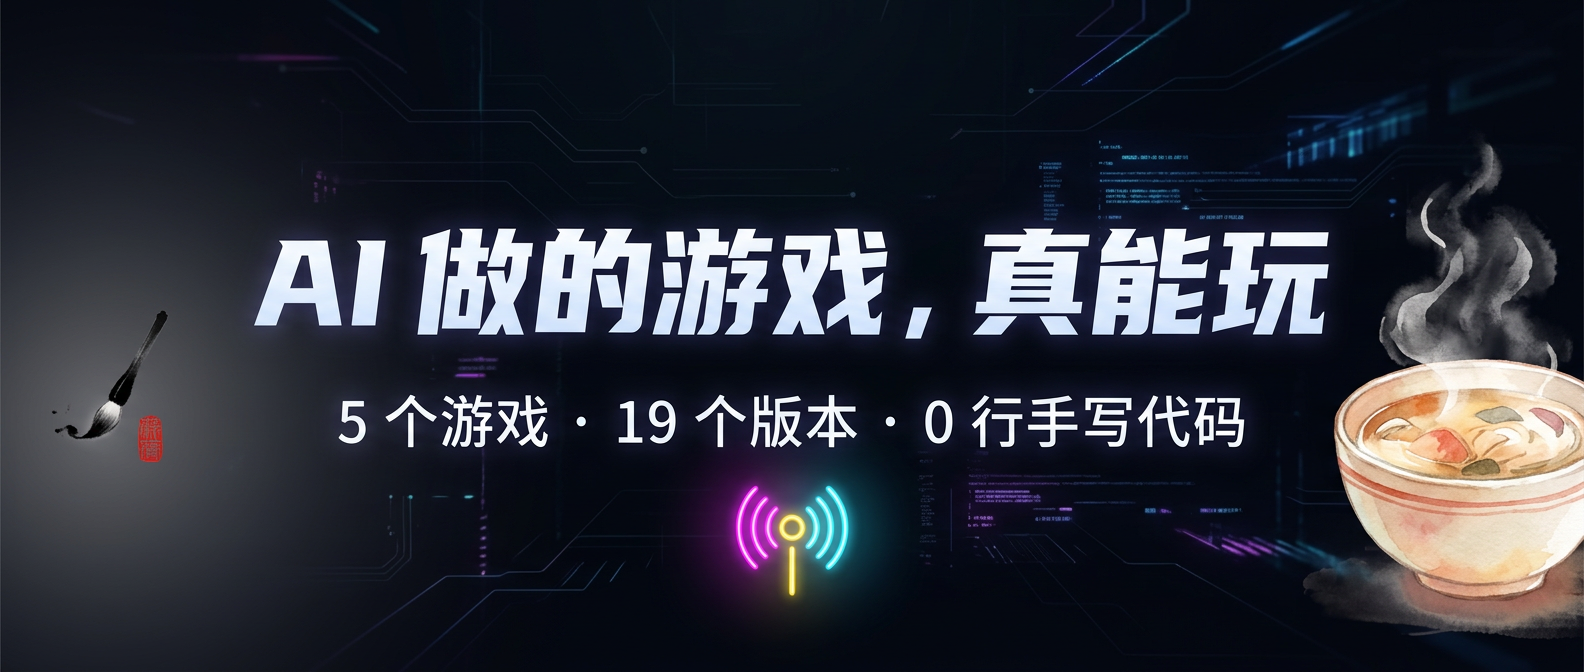
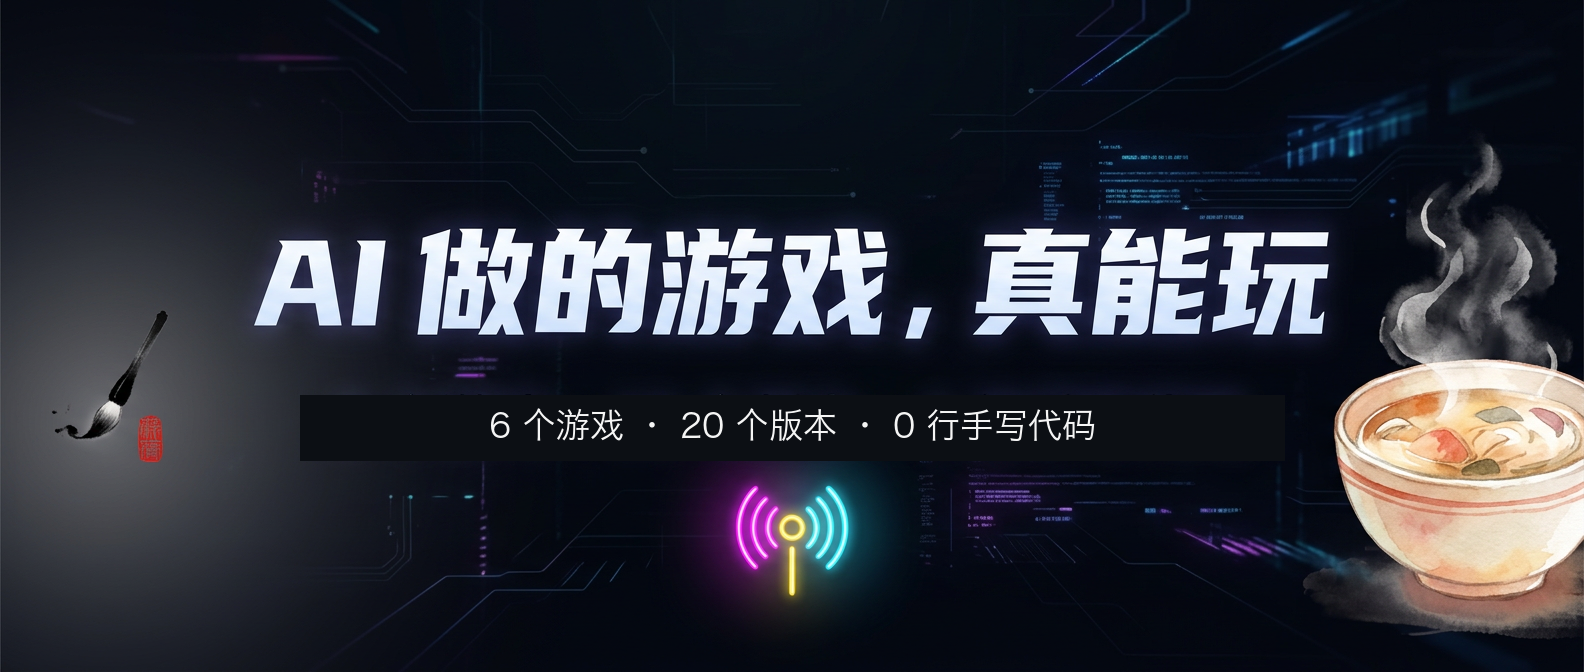
examples: crash-lab — Blender-grade 3D physics destruction built by gpt-6-astra
First 3D game in the collection: PBR materials, three-point lighting,
0.25x slow-mo collapse, seeded physics (±0% measured determinism).
Published: play/9b198fca..., share code 94401. Anonymous play verified.

Changed region(s): [[0.1856, 0.5625, 0.8043, 0.6875]]

diff --git a/README.en.md b/README.en.md
@@ -5,14 +5,24 @@
 [中文](README.md) | **English**
 
 [![License: MIT](https://img.shields.io/badge/License-MIT-green.svg)](LICENSE)
-[![Games: 5](https://img.shields.io/badge/games-5-blueviolet)](https://github.com/convergeai-labs/combos-examples#play-online)
+[![Games: 5](https://img.shields.io/badge/games-6-blueviolet)](https://github.com/convergeai-labs/combos-examples#play-online)
 [![Hand-written code: 0 lines](https://img.shields.io/badge/hand--written%20code-0%20lines-orange)](docs/how-built-with-agent.md)
 
 Games created on [Combos](https://combos.converge.ai) **entirely by an AI coding agent driving the platform's Boo editor agent** — no hand-written game code. Each example ships with its full creation spec, delivery report, version (hash) chain, and verification evidence.
 
 > Batch 1: two games built in one day (pixel fighting + terminal quiz). Batch 2 (2026-08-25): a style-diversity trio — ink-wash, synthwave, watercolor — each **one-shot built, zero fix turns**.
 
-## Latest: the style-diversity batch
+## Latest: the 3D showcase (gpt-6-astra)
+
+| 崩塌实验室 Crash Lab |
+|---|
+| ![Crash Lab gameplay: aim → launch → slow-mo collapse → result](docs/assets/demo-crashlab.gif) |
+| Blender-grade 3D physics destruction: drag to aim, one shot, 0.25× slow-mo collapse, destruction-% rank card |
+| [▶ Start smashing](https://combos.game/play/9b198fca47ea7195ca115dc396b85b7b) `94401` · [docs](examples/crash-lab/) |
+
+First 3D game in the collection, built in one shot by **gpt-6-astra** with zero fix turns; seeded physics — identical drags measured ±0% across runs.
+
+## The style-diversity batch
 
 Three games with zero overlap in visual style, input mechanic, and distribution structure:
 
@@ -39,7 +49,7 @@ No install — opens in a mobile browser, anonymous play supported:
 
 ![Creation pipeline: viral design → spec → Boo creation → independent browser verification → bounded fixes → delivery report](docs/assets/creation-pipeline.png)
 
-Every deployed hash is independently verified in a real browser; failures go back for a bounded fix turn and the new hash is verified again. Five games, 19 deployed hashes, zero hand-written code.
+Every deployed hash is independently verified in a real browser; failures go back for a bounded fix turn and the new hash is verified again. Six games, 20 deployed hashes, zero hand-written code.
 
 ## Examples
 
@@ -50,6 +60,7 @@ Every deployed hash is independently verified in a real browser; failures go bac
 | [一笔签 One Stroke Fortune](examples/one-stroke-fortune/) | Draw one stroke on rice paper, get your 2026 ink fortune poster | [▶ play](https://combos.game/play/f21f5d3fc39ed46e571279e28e995ce8) | 1 | Complete spec = one-shot build, zero fixes; UGC hook without a camera |
 | [毫秒反应局 Millisecond Reaction](examples/ms-reflex/) | Tap on green, 5 rounds, average-ms rank card | [▶ play](https://combos.game/play/28185913e918a376b139ff0c511b9ff9) | 1 | External verification of a WebGL game: screenshot pixel probe instead of getImageData |
 | [灵魂汤底 Soul Soup](examples/soul-soup/) | Three gentle choices in a rainy-night store reveal your soul soup | [▶ play](https://combos.game/play/1040f4909f4dc83398a9739ea27bd384) | 1 | Deterministic mapping (27 paths → 6 soups) written into the spec, implemented verbatim |
+| [崩塌实验室 Crash Lab](examples/crash-lab/) | Blender-grade 3D physics destruction in slow motion | [▶ play](https://combos.game/play/9b198fca47ea7195ca115dc396b85b7b) | 1 | Built by gpt-6-astra on demand; seeded physics ±0% measured |
 
 ## How were these built?
 

diff --git a/examples/crash-lab/goal.md b/examples/crash-lab/goal.md
@@ -1,0 +1,57 @@
+# 《崩塌实验室 Crash Lab》— Plan Goal
+
+> 一句话:拖动静止的钢球瞄准,松手发射,把影棚中央一座精致的 3D 玻璃塔轰成慢动作碎片,按破坏率结算评级;一局 20 秒,传播点是 Blender 级渲染感的坍塌美学。
+
+## 模型指定
+
+- 本项目必须使用 gpt-6-astra 模型构建(用户指定,用于验证该模型的 3D 大作能力上限)。
+
+## 传播设计(先于玩法)
+
+- 完播率钩子:坍塌全程慢动作,破坏率%和评级在最后一帧揭晓。
+- 解压 ASMR 钩子:玻璃连续碎裂 + 低音乐器共振,视觉粒子与声效同步,是天然的解压素材。
+- 失败集锦钩子:差 1% 没倒干净的"悬在那一块砖"是评论区素材("那一块砖是承重墙吗")。
+- 自我证明钩子:"我 98.7%,你能一击全清吗"——破坏率天然可比较。
+
+## Player fantasy & core loop
+
+- 玩家幻想:好莱坞特效总监,一次完美爆破。
+- 核心循环:拖动瞄准(轨迹预览)→ 松手发射 → 慢动作坍塌 → 破坏率评级 → 再来一次/下一座结构。
+- 冲突:一发定乾坤,没有第二球。回报:坍塌奇观 + 破坏率数字。
+
+## Platform & input
+
+- 竖屏 portrait 9:16,Mobile + PC。
+- 输入只有一个:按住拖动瞄准(显示弹道虚线),松手发射。
+
+## 内容结构
+
+- 3 种结构轮换:玻璃塔(12 层,脆)、砖墙(带拱,重)、多米诺阵(连锁导向)。
+- 每局随机抽一种结构,物理模拟用固定种子(同弹道必得同破坏率 ±5%)。
+- 评级梯度:0-20% 挠痒痒 / 20-50% 拆迁实习生 / 50-80% 爆破专家 / 80-95% 末日工程师 / 95%+ 完美一击 PERFECT。
+
+## State machine
+
+标题(崩塌实验室 / 一击,全碎)→ 瞄准(结构全景缓慢环绕镜头,拖动弹道预览)→ 发射(0.3s 常速)→ 慢动作坍塌(0.25× 速度,4-6s,镜头推近)→ 结算卡(破坏率% + 评级 + 结构名)→ 慢动作回放 / 再来一次 / 回标题。静音开关常驻。
+
+## 结算卡(传播核心)
+
+- 大字破坏率%(如 98.7%)+ 评级称号 + 坍塌最美一帧做背景 + "你能一击全清吗"CTA。
+- 可保存为图。
+
+## Visual / audio direction
+
+- 风格:Blender Cycles 渲染感。PBR 材质(玻璃折射、砖块粗糙度、金属球高光)、三点布光 + 柔和阴影、浅景深、暖灰影棚背景、坍塌时的体积尘埃粒子、轻微镜头呼吸感。
+- 用 Three.js + 轻量物理(cannon-es 或自写简化刚体);所有材质程序化生成,无外部素材;低端机降级(粒子数减半、关景深)。
+- WebAudio 合成:玻璃碎裂(高频颗粒)、砖块碰撞(低通噪声)、慢动作时的音高下沉。静音开关常驻。
+
+## Fairness / performance / acceptance gates
+
+- 不变量:固定种子下同弹道破坏率偏差 ≤5%;无球卡死穿模出界(超时 8s 强制结算);60fps 目标,低端降级后 ≥30fps。
+- 首屏 3s 内可交互。
+- 验收门禁(每轮迭代后必查):1. 新 hash 出现;2. 状态机全走通(含超时强制结算分支);3. 控制台/pageerror 零未解释错误;4. 390×844 与 1440×900 无重叠裁切;5. 拖动瞄准与发射在 touch 与 mouse 都生效;6. 结算卡要素齐全(破坏率/评级/结构名/CTA);7. 同一坐标重放两次,破坏率一致。
+
+## Explicit exclusions
+
+- 不做:账号、排行榜后端、多人、内购、关卡编辑器、第二球。
+- 不使用任何外部模型/贴图文件;不声称真实物理引擎精度。

diff --git a/README.md b/README.md
@@ -5,14 +5,24 @@
 **中文** | [English](README.en.md)
 
 [![License: MIT](https://img.shields.io/badge/License-MIT-green.svg)](LICENSE)
-[![Games: 5](https://img.shields.io/badge/games-5-blueviolet)](https://github.com/convergeai-labs/combos-examples#在线试玩)
+[![Games: 5](https://img.shields.io/badge/games-6-blueviolet)](https://github.com/convergeai-labs/combos-examples#在线试玩)
 [![Hand-written code: 0 lines](https://img.shields.io/badge/hand--written%20code-0%20lines-orange)](docs/how-built-with-agent.md)
 
 在 [Combos](https://combos.converge.ai) 上、**完全由 AI coding agent 驱动平台的 Boo 编辑 agent** 创作的游戏合集——没有手写一行游戏代码。每个示例都附带完整创作规格、交付报告、版本 hash 链和独立验证证据。
 
 > 第一批:一天之内做出的两个游戏(像素格斗 + 终端盲测)。第二批(2026-08-25):风格多样性三连——水墨、霓虹、水彩,三个游戏全部**一次构建通过,0 修复 turn**。
 
-## 最新:风格多样性批次
+## 最新:3D 大作批次(gpt-6-astra)
+
+| 崩塌实验室 Crash Lab |
+|---|
+| ![崩塌实验室实玩:瞄准→发射→慢动作坍塌→结算](docs/assets/demo-crashlab.gif) |
+| Blender 级渲染感 3D 物理破坏:拖放瞄准,一击轰碎玻璃塔,0.25× 慢动作,破坏率% 评级 |
+| [▶ 开始爆破](https://combos.game/play/9b198fca47ea7195ca115dc396b85b7b) `94401` · [示例文档](examples/crash-lab/) |
+
+合集第一个 3D 游戏,指定 **gpt-6-astra** 模型一次构建 0 修复;固定种子物理,同弹道两次实测破坏率 ±0%。
+
+## 风格多样性批次
 
 视觉风格 × 玩法机制 × 传播结构全部错开的三个游戏:
 
@@ -39,7 +49,7 @@
 
 ![创作流水线:传播设计→写规格→Boo 创建→独立浏览器验证→有界修复→交付报告](docs/assets/creation-pipeline.png)
 
-每个部署 hash 都经过独立浏览器验证;验证不过就回炉,新 hash 再验证。五个游戏共 19 个部署 hash,0 行手写代码。
+每个部署 hash 都经过独立浏览器验证;验证不过就回炉,新 hash 再验证。六个游戏共 20 个部署 hash,0 行手写代码。
 
 ## 示例
 
@@ -50,6 +60,7 @@
 | [一笔签 One Stroke Fortune](examples/one-stroke-fortune/) | 宣纸上画一笔,抽你的 2026 水墨运势签 | [▶ 试玩](https://combos.game/play/f21f5d3fc39ed46e571279e28e995ce8) | 1 | 完整规格 = 一次构建 0 修复;UGC 钩子不靠相机靠笔迹 |
 | [毫秒反应局 Millisecond Reaction](examples/ms-reflex/) | 灯绿就点,5 轮平均毫秒数定段位 | [▶ 试玩](https://combos.game/play/28185913e918a376b139ff0c511b9ff9) | 1 | WebGL 游戏的外部验证:截图像素探针替代 getImageData |
 | [灵魂汤底 Soul Soup](examples/soul-soup/) | 雨夜便利店三个选择,测你的灵魂汤底 | [▶ 试玩](https://combos.game/play/1040f4909f4dc83398a9739ea27bd384) | 1 | 确定性映射(27 路径→6 汤底)写进规格,Boo 原样实现 |
+| [崩塌实验室 Crash Lab](examples/crash-lab/) | Blender 级 3D 物理破坏,一击轰碎慢动作 | [▶ 试玩](https://combos.game/play/9b198fca47ea7195ca115dc396b85b7b) | 1 | 指定 gpt-6-astra 构建;固定种子同弹道 ±0% 实测 |
 
 ## 这些游戏是怎么做出来的?
 

diff --git a/examples/crash-lab/delivery-2026-09-14.md b/examples/crash-lab/delivery-2026-09-14.md
@@ -1,0 +1,33 @@
+# 交付报告 — 崩塌实验室 Crash Lab · 2026-09-14
+
+## 构建
+
+- 创建:官方 Combos 产品 API(`/game/api/v1/projects/v2`),完整规格作为首条 user_query
+- **模型:gpt-6-astra(用户指定)**——payload 带 `chat_model_selection_mode=manual, selected_chat_model_key=gpt-6-astra`,项目 thread_status 回读确认生效
+- 项目 ID:`2099377347147657216`;部署 hash:`4b9038ec2e3a17736232d018fb63825a`
+- 迭代次数:**1 次构建,0 修复 turn**
+
+## 独立验证(浏览器自动化,非构建方自报)
+
+| 门禁 | 结果 |
+|---|---|
+| 标题 → 瞄准 → 发射 → 慢动作坍塌 → 结算卡 → 再来一次 全状态机 | ✓(移动+桌面) |
+| 控制台 / pageerror | 0(双视口) |
+| 拖动瞄准 + 松手发射 | ✓ 直线拖动:多米诺阵 69.4% / 玻璃塔 100% |
+| 结算卡要素 | 破坏率% + 评级(挠痒痒→PERFECT)+ 结构名 + CTA + 慢动作回放 + 保存为图 |
+| **物理确定性(规格 ±5%)** | 同一拖动两次:100% vs 100%,**±0%** ✓ |
+| 三种结构轮换 | 实测 3/3 出现(多米诺阵/玻璃塔/拱形砖墙) |
+| 匿名可玩(Post 发布后) | ✓ 无登录态上下文加载正常,0 错误 |
+
+## 模型能力观察(gpt-6-astra)
+
+- 视觉完成度显著高于前几批:editorial 排版(竖排英文/网格系统)、Cycles 感材质与布光、慢动作镜头语言一次到位,无需视觉修复 turn。
+- 结构说明文案有设计感("定向连锁阵列 / 从第一张开始")。
+- 首次构建即通过全部门禁,与规格一次到位的方法论互相印证。
+
+## 未覆盖(声明)
+
+- 超时强制结算分支(球卡死 8s)未触发验证
+- 低端机降级路径(粒子减半/关景深)未实测
+- 慢动作回放与保存为图的导出内容:按钮存在,未验证导出
+- 真实触屏(非合成 mouse 事件)手感:需真人复核

diff --git a/examples/crash-lab/README.md b/examples/crash-lab/README.md
@@ -1,0 +1,24 @@
+# 崩塌实验室 Crash Lab
+
+> Blender 级渲染感的 3D 物理破坏:拖动瞄准,松手发射钢球,看影棚中央的 3D 结构在 0.25× 慢动作里崩解,按破坏率% 评级。一局 20 秒。
+
+![实玩:瞄准 → 发射 → 慢动作坍塌 → 69.4% 结算](../../docs/assets/demo-crashlab.gif)
+
+## 为什么这个例子重要
+
+- **合集里第一个 3D 游戏**:PBR 材质、三点布光、浅景深、体积尘埃——Blender Cycles 渲染方向全部程序化落地,无外部素材。
+- **指定模型构建**:全程由 **gpt-6-astra** 模型一次构建(`selected_chat_model_key` 可审计),0 修复 turn。
+- **物理确定性**:固定种子,同弹道同破坏率——验收时同一拖动两次实测 ±0%(100%/100%)。
+- **输入维度**:压敏式拖放(方向+力度),与合集中画(轨迹)/点(时机)/选(分支)互补。
+
+## 文件
+
+- [goal.md](goal.md) — 完整创作规格
+- [delivery-2026-09-14.md](delivery-2026-09-14.md) — 交付报告(模型验证、确定性实测)
+- screenshots/ — 标题/瞄准/坍塌/结算卡实拍
+
+## 试玩
+
+[▶ 开始爆破](https://combos.game/play/9b198fca47ea7195ca115dc396b85b7b) · 分享码 `94401`
+
+项目 ID `2099377347147657216`,部署 hash `4b9038ec2e3a17736232d018fb63825a`。
